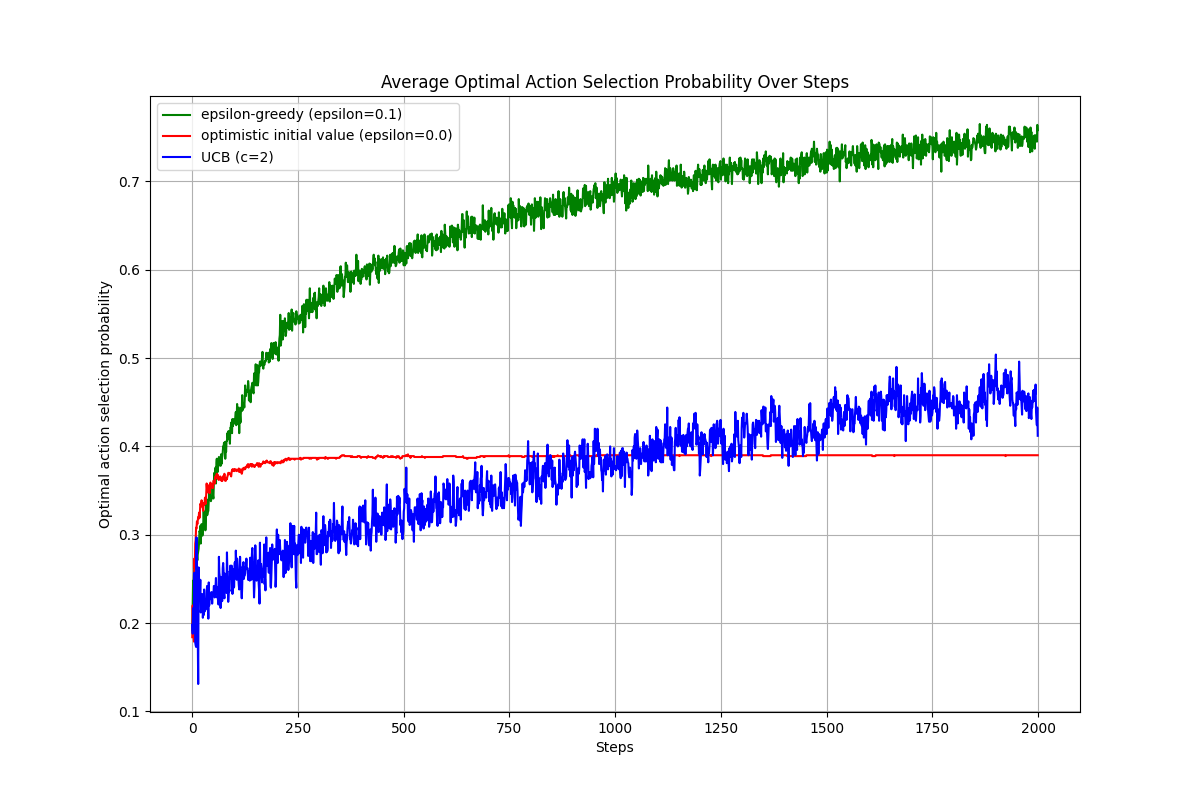
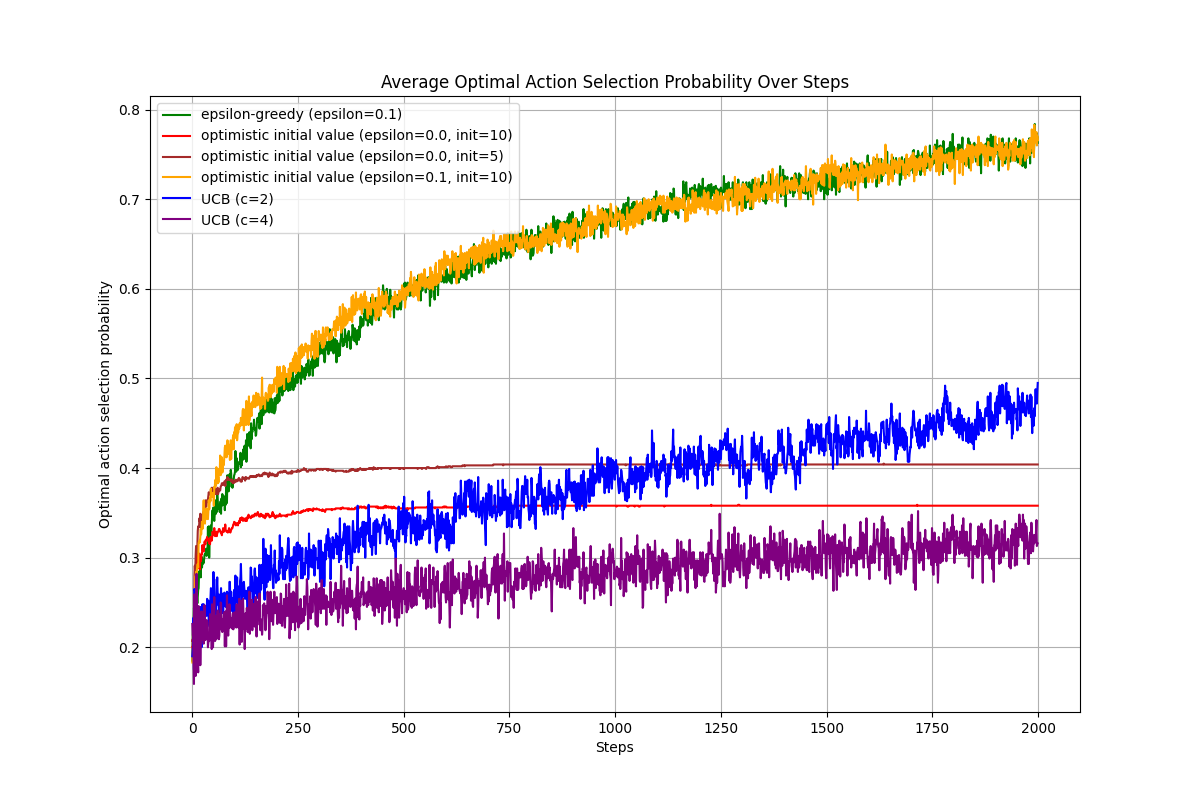
실험 후 결과 작성

diff --git a/Homework#1/2b/2b.py b/Homework#1/2b/2b.py
@@ -105,16 +105,46 @@ def opt_init(env, n, epsilon, init_value): # (bandit environment, the number of 
 # =====================================================================
 # Training of optimistic initial value (with epsilon=0.0 and init_value=10)
 # =====================================================================
-A_OPT = [] # eps=0, greedy, optimistic
+A_OPT_init10 = [] # eps=0, greedy, optimistic (init=10)
 
 for i in range(1, n_exp+1):
   Q, hist_A  = opt_init(env, n=n_trials, epsilon=0, init_value = 10)
-  A_OPT.append(hist_A)
+  A_OPT_init10.append(hist_A)
 
   if i % 100 == 0 and i > 0:
     print('{}/{}'.format(i, n_exp), '[', '*'*int(i/100), '-'*int((n_exp-i)/100), ']')
 
-A_OPT = np.array(A_OPT)
+A_OPT_init10 = np.array(A_OPT_init10)
+
+
+# =====================================================================
+# Training of optimistic initial value (with epsilon=0.0 and init_value=5)
+# =====================================================================
+A_OPT_init5 = [] # eps=0, greedy, optimistic (init=5)
+
+for i in range(1, n_exp+1):
+  Q, hist_A  = opt_init(env, n=n_trials, epsilon=0, init_value = 5)
+  A_OPT_init5.append(hist_A)
+
+  if i % 100 == 0 and i > 0:
+    print('{}/{}'.format(i, n_exp), '[', '*'*int(i/100), '-'*int((n_exp-i)/100), ']')
+
+A_OPT_init5 = np.array(A_OPT_init5)
+
+
+# =====================================================================
+# Training of optimistic initial value (with epsilon=0.1 and init_value=10)
+# =====================================================================
+A_OPT_eps01 = [] # eps=0.1, optimistic
+
+for i in range(1, n_exp+1):
+  Q, hist_A  = opt_init(env, n=n_trials, epsilon=0.1, init_value = 10)
+  A_OPT_eps01.append(hist_A)
+
+  if i % 100 == 0 and i > 0:
+    print('{}/{}'.format(i, n_exp), '[', '*'*int(i/100), '-'*int((n_exp-i)/100), ']')
+
+A_OPT_eps01 = np.array(A_OPT_eps01)
 
 
 # =====================================================================
@@ -131,16 +161,17 @@ def upper_confidence_bound(env, n, c_UCB): #(bandit environment, number of trial
   #iteration
   for i in range(n):
       #upper confidence bound
-      UCB = c_UCB*np.sqrt(np.log(n)/N)
-      A = argmax(Q+UCB)
+      UCB = c_UCB * np.sqrt(np.log(i + 1) / N) # [a1, a2, a3, a4, a5] : UCB for each action
+      A = argmax(Q + UCB)
       R = env.reward(A)
 
       N[A] += 1
       #undo N treatment if it avoids zero
       if N[A] == 1.00001:
           N[A] -= 0.00001
+
       #incremental implementation
-      Q[A] += (1/N[A]) * (R - Q[A])
+      Q[A] += (1 / N[A]) * (R - Q[A])
       #save the current action
       hist_A.append(A)
 
@@ -150,16 +181,31 @@ def upper_confidence_bound(env, n, c_UCB): #(bandit environment, number of trial
 # =====================================================================
 # Training of upper confidence bound (with c=2)
 # =====================================================================
-A_UCB = []     # upper-confidence-bound
+A_UCB_c2 = []     # upper-confidence-bound
 
 for i in range(1, n_exp+1):
   Q, hist_A = upper_confidence_bound(env, n=n_trials, c_UCB = 2)
-  A_UCB.append(hist_A)
+  A_UCB_c2.append(hist_A)
 
   if i % 100 == 0 and i > 0:
     print('{}/{}'.format(i, n_exp), '[', '*'*int(i/100), '-'*int((n_exp-i)/100), ']')
 
-A_UCB = np.array(A_UCB)
+A_UCB_c2 = np.array(A_UCB_c2)
+
+
+# =====================================================================
+# Training of upper confidence bound (with c=4)
+# =====================================================================
+A_UCB_c4 = []     # upper-confidence-bound (c=4)
+
+for i in range(1, n_exp+1):
+  Q, hist_A = upper_confidence_bound(env, n=n_trials, c_UCB = 4)
+  A_UCB_c4.append(hist_A)
+
+  if i % 100 == 0 and i > 0:
+    print('{}/{}'.format(i, n_exp), '[', '*'*int(i/100), '-'*int((n_exp-i)/100), ']')
+
+A_UCB_c4 = np.array(A_UCB_c4)
 
 
 # =====================================================================
@@ -169,17 +215,26 @@ max_A = argmax(env.q)
 
 # Calculate boolean arrays indicating if the optimal action was selected
 is_optimal_EGreedy = (A_EGreedy == max_A)
-is_optimal_OPT = (A_OPT == max_A)
-is_optimal_UCB = (A_UCB == max_A)
+is_optimal_OPT_init10 = (A_OPT_init10 == max_A)
+is_optimal_OPT_init5 = (A_OPT_init5 == max_A)
+is_optimal_OPT_eps01 = (A_OPT_eps01 == max_A)
+is_optimal_UCB_c2 = (A_UCB_c2 == max_A)
+is_optimal_UCB_c4 = (A_UCB_c4 == max_A)
 
 # Compute the average optimal action selection probability over experiments
 mean_optimal_prob_EGreedy = np.average(is_optimal_EGreedy, axis=0)
-mean_optimal_prob_OPT = np.average(is_optimal_OPT, axis=0)
-mean_optimal_prob_UCB = np.average(is_optimal_UCB, axis=0)
+mean_optimal_prob_OPT_init10 = np.average(is_optimal_OPT_init10, axis=0)
+mean_optimal_prob_OPT_init5 = np.average(is_optimal_OPT_init5, axis=0)
+mean_optimal_prob_OPT_eps01 = np.average(is_optimal_OPT_eps01, axis=0)
+mean_optimal_prob_UCB_c2 = np.average(is_optimal_UCB_c2, axis=0)
+mean_optimal_prob_UCB_c4 = np.average(is_optimal_UCB_c4, axis=0)
 
 print(mean_optimal_prob_EGreedy)
-print(mean_optimal_prob_OPT)
-print(mean_optimal_prob_UCB)
+print(mean_optimal_prob_OPT_init10)
+print(mean_optimal_prob_OPT_init5)
+print(mean_optimal_prob_OPT_eps01)
+print(mean_optimal_prob_UCB_c2)
+print(mean_optimal_prob_UCB_c4)
 
 
 # =====================================================================
@@ -187,8 +242,11 @@ print(mean_optimal_prob_UCB)
 # =====================================================================
 plt.figure(figsize=(12, 8))
 plt.plot(mean_optimal_prob_EGreedy, color='green', label='epsilon-greedy (epsilon=0.1)')
-plt.plot(mean_optimal_prob_OPT, color='red', label='optimistic initial value (epsilon=0.0)')
-plt.plot(mean_optimal_prob_UCB, color='blue', label='UCB (c=2)')
+plt.plot(mean_optimal_prob_OPT_init10, color='red', label='optimistic initial value (epsilon=0.0, init=10)')
+plt.plot(mean_optimal_prob_OPT_init5, color='brown', label='optimistic initial value (epsilon=0.0, init=5)')
+plt.plot(mean_optimal_prob_OPT_eps01, color='orange', label='optimistic initial value (epsilon=0.1, init=10)')
+plt.plot(mean_optimal_prob_UCB_c2, color='blue', label='UCB (c=2)')
+plt.plot(mean_optimal_prob_UCB_c4, color='purple', label='UCB (c=4)')
 
 plt.xlabel('Steps')
 plt.ylabel('Optimal action selection probability')

diff --git a/Homework#1/2b/README.md b/Homework#1/2b/README.md
@@ -17,6 +17,17 @@ Where:
 - $N(a)$ is the number of times action a has been selected.
 - $R$ is the reward received from taking action a.
 
+```python
+Q = np.zeros(env.size) # initial Q
+N = np.zeros(env.size) # selected times of each action
+
+# ... Action selection and reward receiving ...
+
+#Update Q: incremental implementation
+N[A] += 1
+Q[A] += (1/N[A]) * (R - Q[A])
+```
+
 ## Epsilon-Greedy
 epsilon-greedy action selection strategy selects a random action with probability $\epsilon$ and the action with the highest estimated value $Q(a)$ with probability $1-\epsilon$. The action selection can be expressed as:
 
@@ -25,6 +36,102 @@ $$A_t = \begin{cases}
 \arg\max_a Q(a) & \text{with probability } 1-\epsilon
 \end{cases}$$
 
+```python
+Q = np.zeros(env.size)
+N = np.zeros(env.size)
+
+for i in range(n):
+  if np.random.rand() > epsilon:    # greedy action selection with the prob. (1-epsilon)
+    A = argmax(Q) # select the action with the highest estimated value
+
+  else:
+    A = np.random.randint(env.size) # exploration with the prob. (epsilon)
+
+  R = env.reward(A)
+```
+
+## Optimistic Initial Value
+Optimistic initial value action selection strategy initializes the estimated values $Q(a)$ to a high value (optimistic) and selects the action with the highest estimated value. The action selection can be expressed as:
+
+$$A_t = \arg\max_a Q(a)$$
+
+Where $Q(a)$ is initialized to a high value (e.g., 10) to encourage exploration.
+
+```python
+Q = np.zeros(env.size) * init_value # optimistic initial value
+N = np.zeros(env.size)         
+
+# ... Action selection and reward receiving ...
+
+N[A] += 1
+Q[A] += (1/N[A]) * (R - Q[A])
+```
+
+## Upper Confidence Bound (UCB)
+Upper confidence bound action selection strategy selects the action that maximizes the upper confidence bound of the estimated value. The action selection can be expressed as:
+
+$$A_t = \arg\max_a \left[ Q(a) + c \sqrt{\frac{\ln t}{N(a)}} \right]$$
+
+Where:
+- $Q(a)$ is the estimated value of action a.
+- $c$ is a confidence level parameter that controls the degree of exploration.
+- $t$ is the current time step.
+- $N(a)$ is the number of times action a has been selected.
+
+```python
+Q = np.zeros(env.size)
+N = np.zeros(env.size)
+
+N = N + 0.00001 #avoding zero-division
+#iteration
+for i in range(n):
+    #upper confidence bound
+    UCB = c_UCB * np.sqrt(np.log(i + 1) / N) # [a1, a2, a3, a4, a5] : UCB for each action
+    A = argmax(Q + UCB)
+    R = env.reward(A)
+
+    N[A] += 1
+    #undo N treatment if it avoids zero
+    if N[A] == 1.00001:
+        N[A] -= 0.00001
+
+    #incremental implementation
+    Q[A] += (1 / N[A]) * (R - Q[A])
+    #save the current action
+    hist_A.append(A)
+```
+
+## Results
+```python
+max_A = argmax(env.q)
+# Calculate boolean arrays indicating if the optimal action was selected
+is_optimal_EGreedy = (A_EGreedy == max_A)
+is_optimal_OPT = (A_OPT == max_A)
+is_optimal_UCB = (A_UCB == max_A)
+
+# Compute the average optimal action selection probability over experiments
+mean_optimal_prob_EGreedy = np.average(is_optimal_EGreedy, axis=0)
+mean_optimal_prob_OPT = np.average(is_optimal_OPT, axis=0)
+mean_optimal_prob_UCB = np.average(is_optimal_UCB, axis=0)
+```
 
 
 ![Figure_1](Figure_1.png)
+
+보라색 선과 파란색 선은 각각 UCB에서 c=4와 c=2일 경우의 결과를 나타낸다. c=4일 경우 약 0.3 부근에서 거의 무작위 선택 수준으로 수렴하고, c=2일 경우에는 약 0.5 부근에 수렴하는 것을 볼 수 있다. 이는 c 값이 높을수록 탐험이 더 많이 이루어지기 때문이며, c=4의 경우 탐험이 너무 많아져서 최적 행동 선택 확률이 낮아지는 것을 보여준다. 반면에 c=2의 경우 최적 행동 선택 확률이 더 높게 나타난다.
+
+초록색선은 epsilon-greedy에서 epsilon=0.1일 때의 결과를 나타낸다. 약 0.8 부근에서 수렴하는 것을 볼 수 있으며, 이는 epsilon-greedy가 탐험과 활용을 적절히 균형 있게 수행하기 때문이라고 할 수 있다.
+
+빨간색 선과 갈색 선은 각각 optimistic initial value에서 초기값이 10과 5일 때의 결과를 나타낸다. 초기값이 5인 경우 약 0.4 부근에서 수렴하는 것을 볼 수 있으며, 초기값이 10인 경우 약 0.35 부근에서 수렴하는 것을 볼 수 있다. 이는 초기값이 높을수록 탐험이 더 많이 이루어지기 때문이며, 초기값이 10인 경우 탐험이 더 많아져서 최적 행동 선택 확률이 낮아지는 것을 보여준다. 반면에 초기값이 5인 경우 최적 행동 선택 확률이 더 높게 나타난다.
+
+주황색 선은 optimistic initial value에서 epsilon=0.1과 초기값이 10일 때의 결과를 나타낸다. 약 0.8 부근에서 수렴하는 것을 볼 수 있다. optimistic initial value는 극초반에 강제로 탐험이 많이 이루어지면서 최적 행동 선택 확률이 낮아지는 경향이 있지만, epsilon-greedy와 결합하여 보상이 높은 행동을 빠르게 학습할 수 있도록 도와주기 때문에 최적 행동 선택 확률이 높아지는 것을 보여준다.
+
+결론적으로 UCB는 c 값이 너무 높으면 탐험이 과도하게 이루어져 최적 행동 선택 확률이 낮아질 수 있지만, 적절한 c 값을 선택하면 최적 행동 선택 확률이 높아질 수 있다. epsilon-greedy는 탐험과 활용을 균형 있게 수행하여 최적 행동 선택 확률이 높게 나타난다. optimistic initial value는 초기값이 너무 높으면 탐험이 과도하게 이루어져 최적 행동 선택 확률이 낮아질 수 있지만, 적절한 초기값과 epsilon 값을 선택하면 최적 행동 선택 확률이 높아질 수 있다.
+
+**Results Summary:**
+- UCB with c=4 converges to around 0.3, indicating excessive exploration leading to lower optimal action selection probability.
+- UCB with c=2 converges to around 0.5, showing a better balance between exploration and exploitation.
+- Epsilon-greedy with epsilon=0.1 converges to around 0.8, demonstrating a good balance between exploration and exploitation.
+- Optimistic initial value with init=10 converges to around 0.35, indicating excessive exploration due to high initial values.
+- Optimistic initial value with init=5 converges to around 0.4, showing a better balance between exploration and exploitation compared to init=10.
+- Optimistic initial value with epsilon=0.1 and init=10 converges to around 0.8, demonstrating that combining optimistic initial values with epsilon-greedy can lead to higher optimal action selection probability by encouraging early exploration while still allowing for exploitation of learned values.
